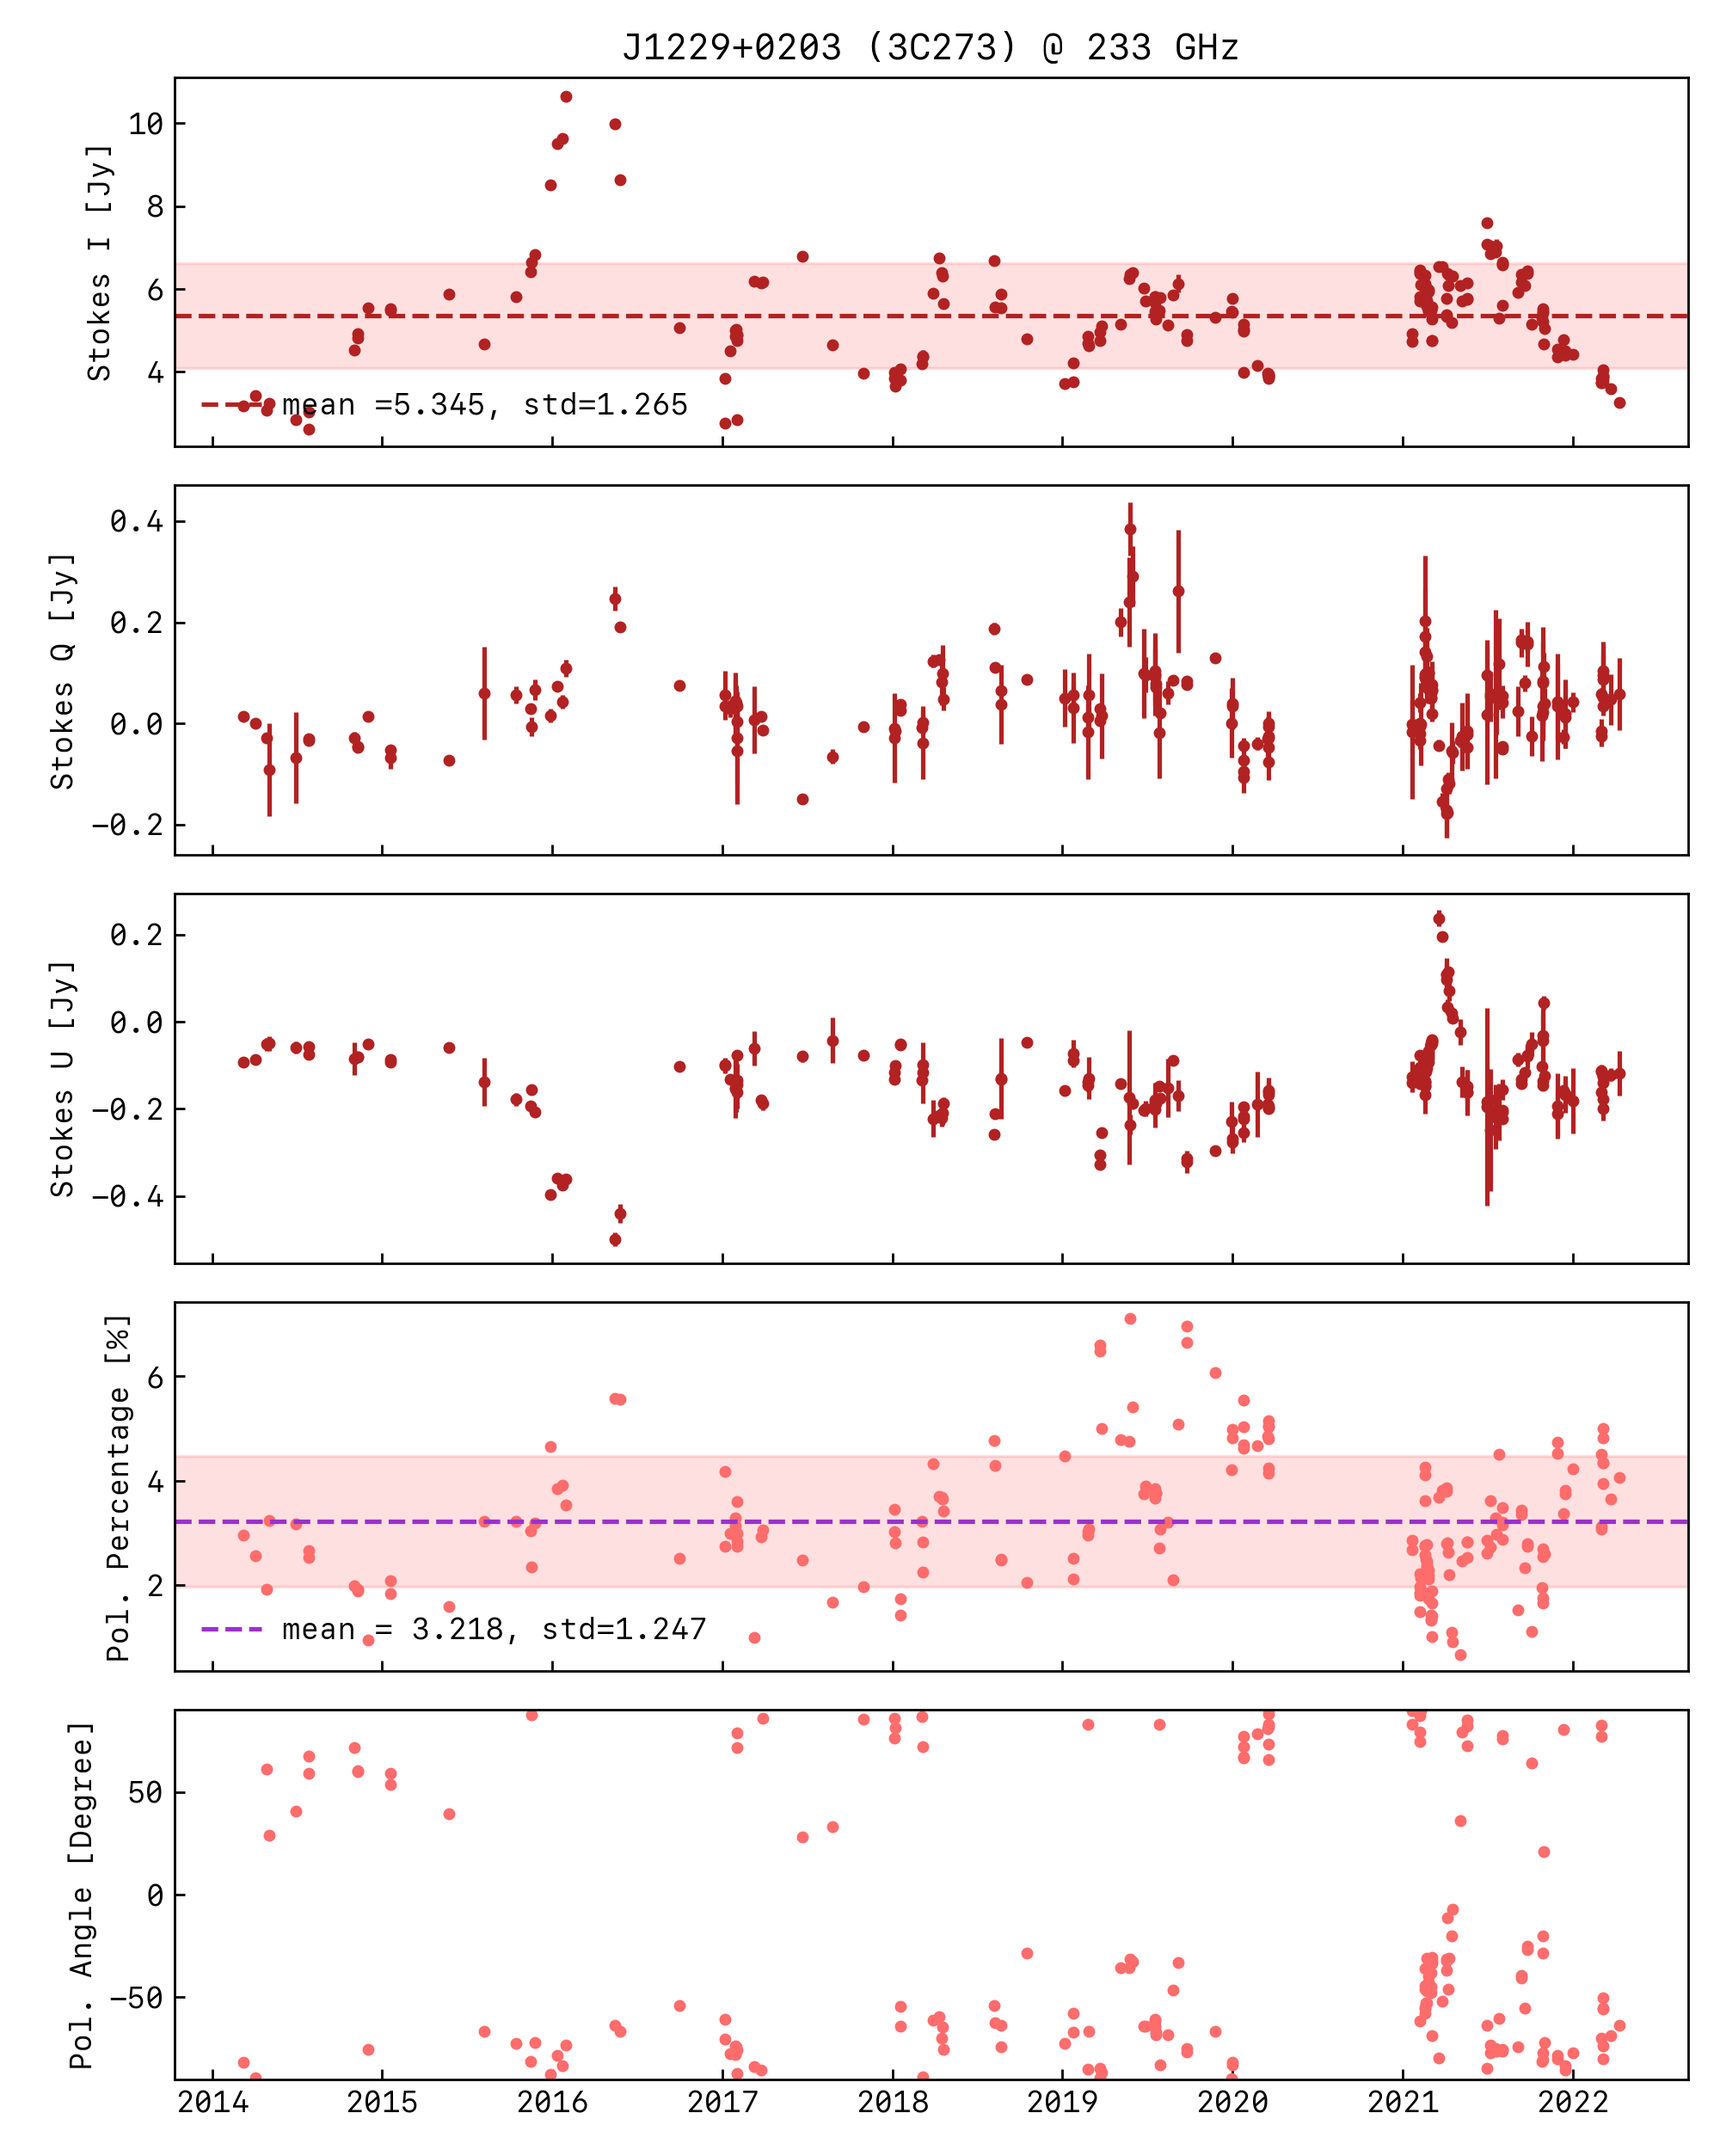
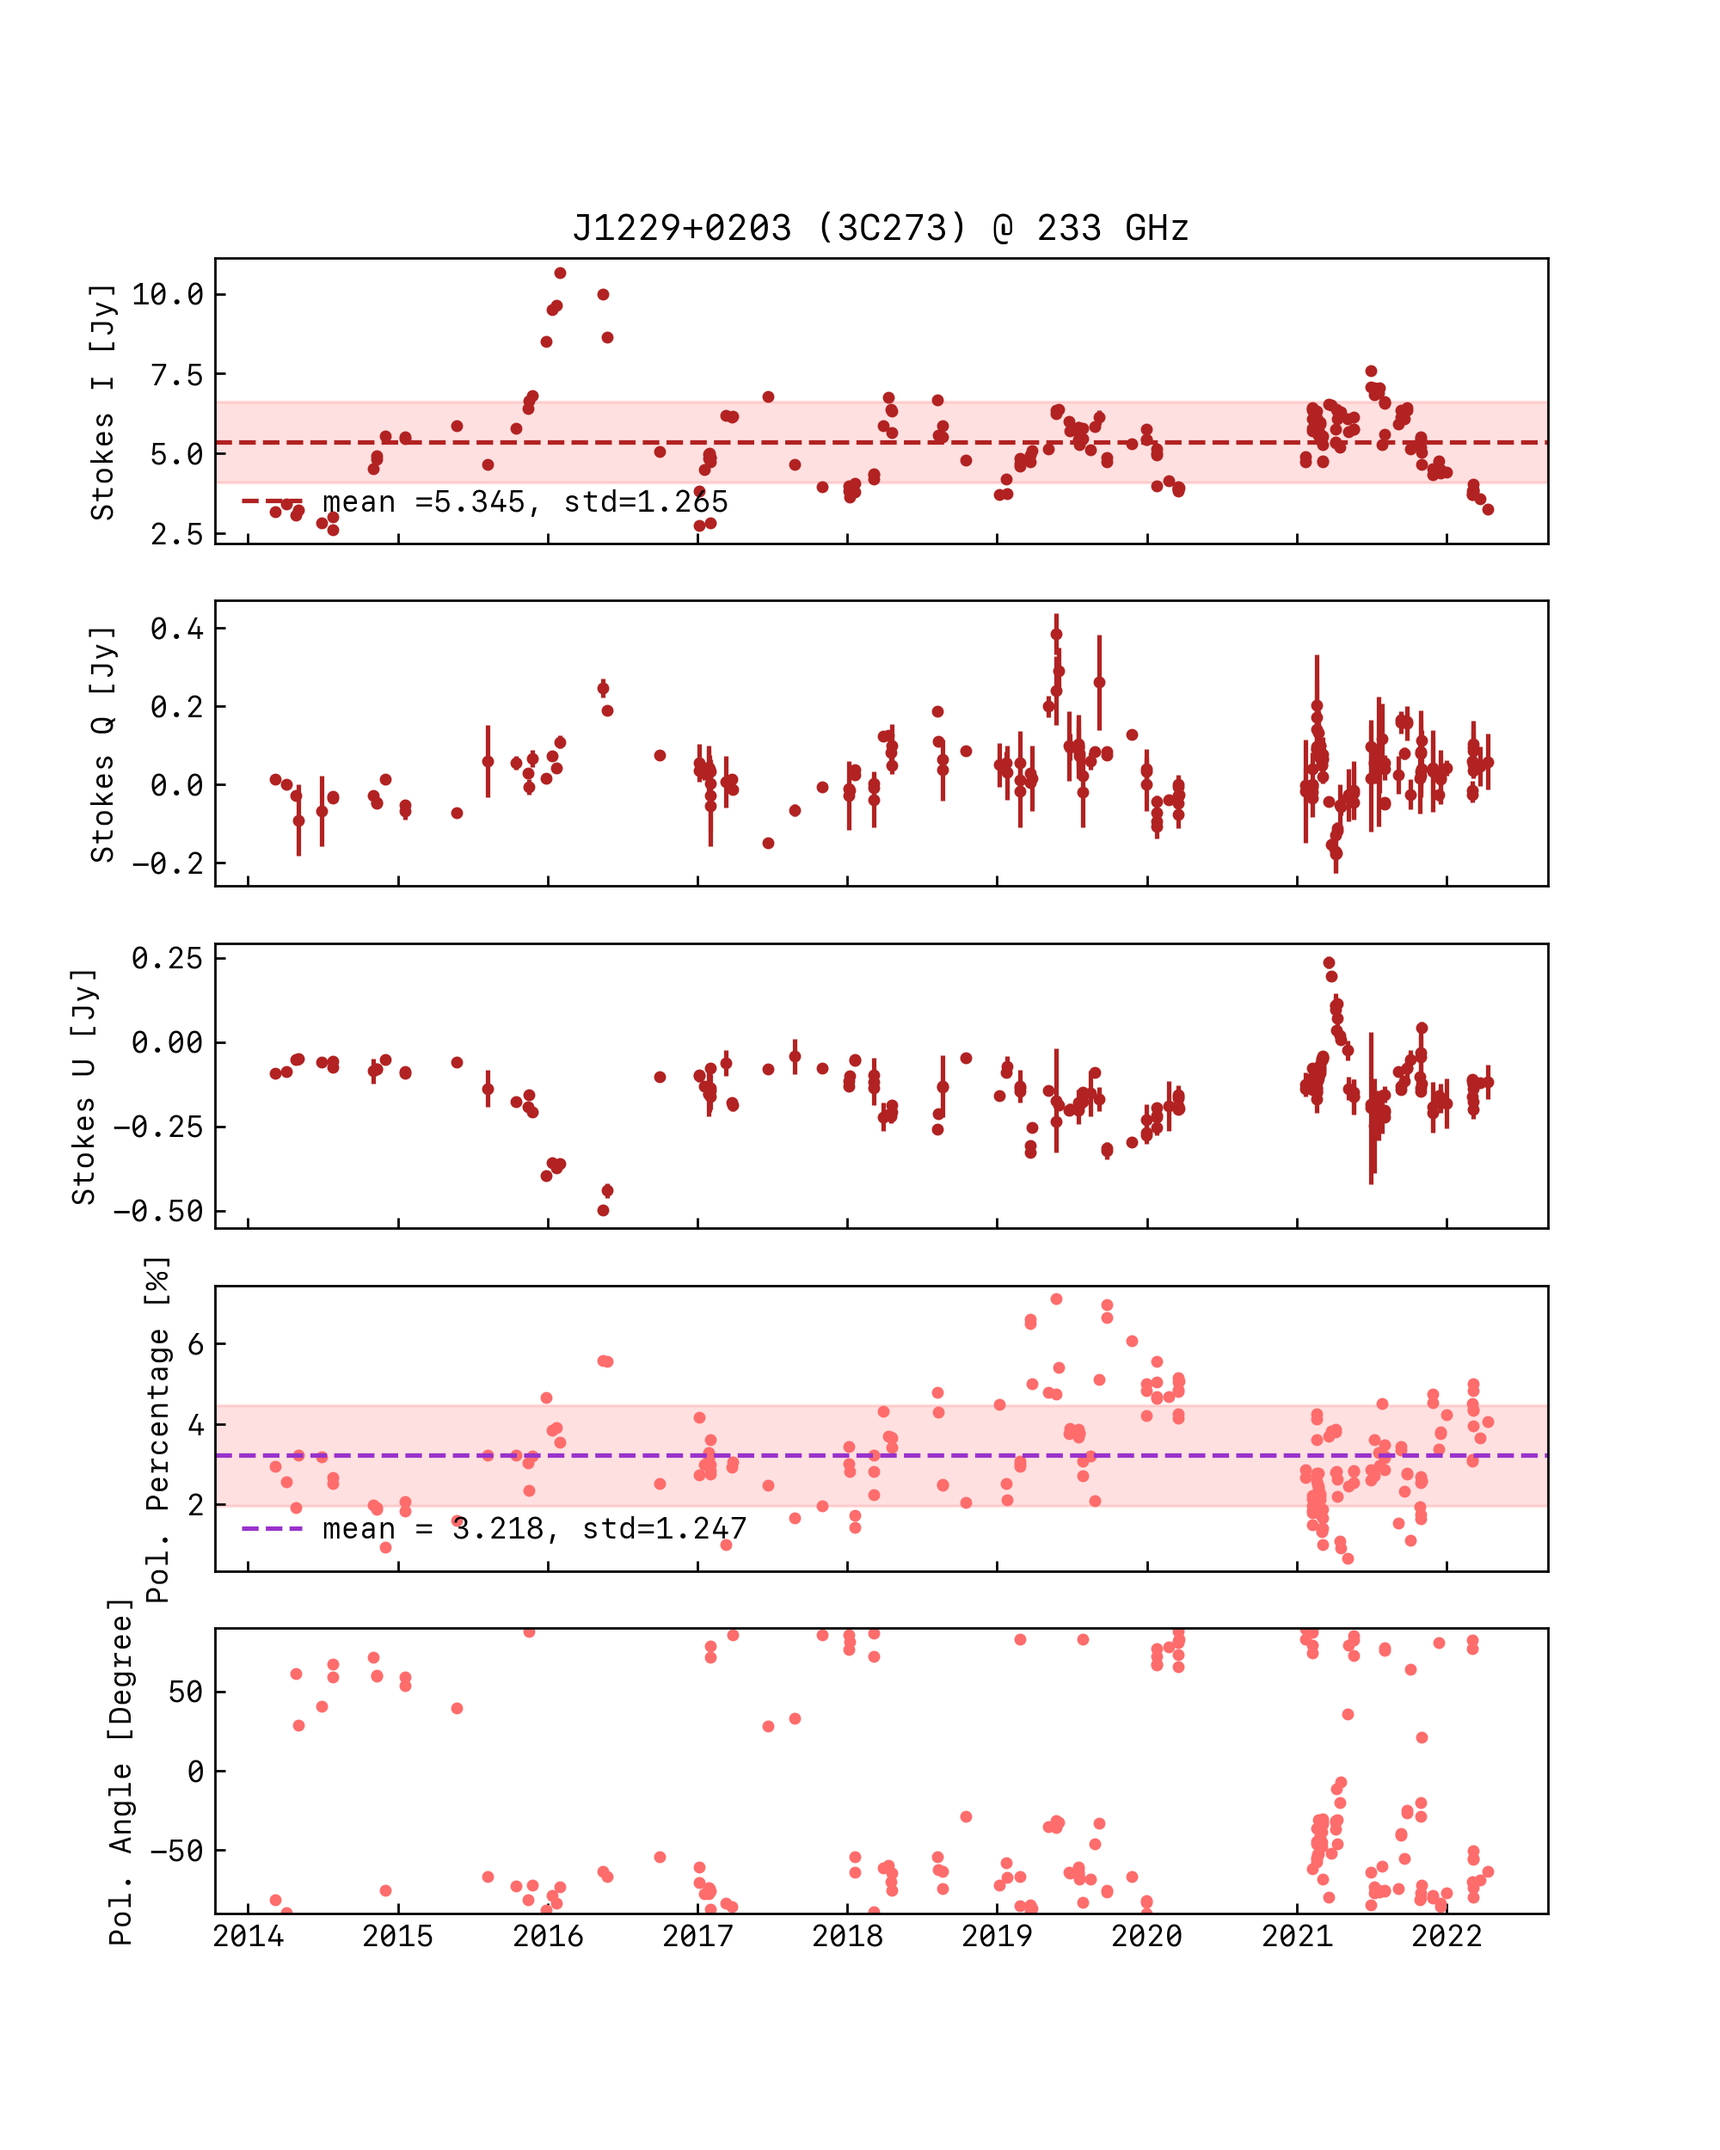
padding

diff --git a/src/amapola_obs.py b/src/amapola_obs.py
@@ -69,6 +69,6 @@ if __name__ == "__main__":
         sp_obj[4].set_ylim((-90, 90))
         #sp_obj[4].legend(fancybox=False, loc='lower left', handletextpad=0.7, frameon=False)
 
-        plot_obj.tight_layout()
+        #plot_obj.tight_layout()
         plot_obj.savefig(f'./plots/amapola/{name_3c}.png', dpi=250)
         plt.close('all')
